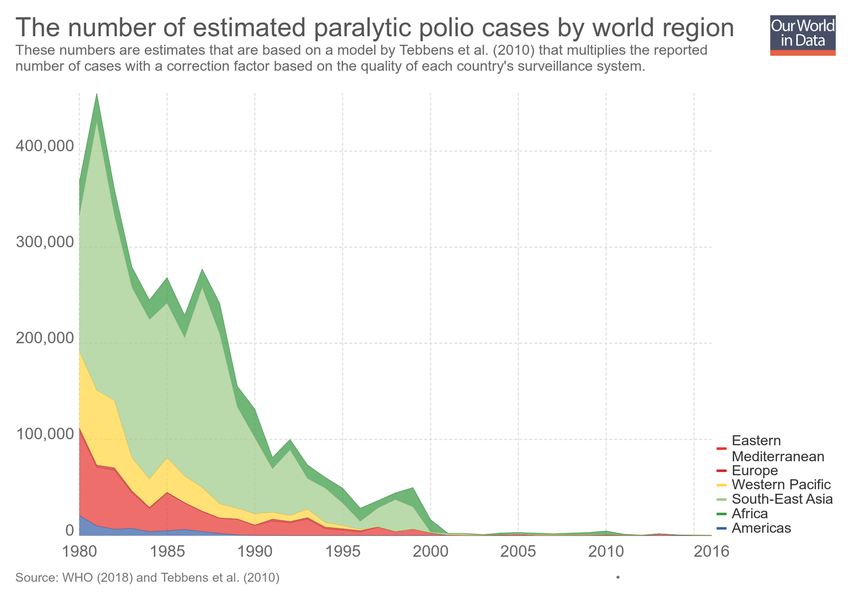
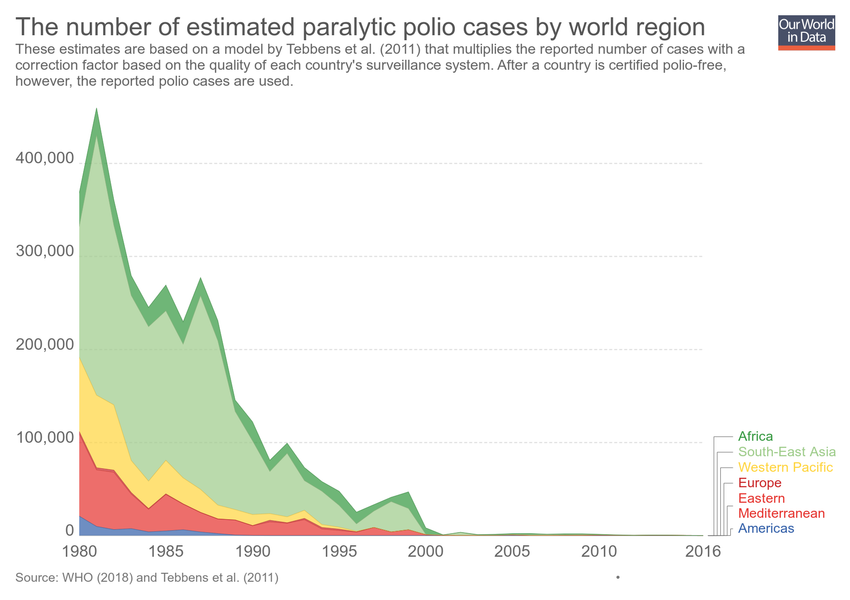
Updating chart number-of-estimated-paralytic-polio-cases-by-world-region

diff --git a/grapher/number-of-estimated-paralytic-polio-cases-by-world-region.html b/grapher/number-of-estimated-paralytic-polio-cases-by-world-region.html
@@ -1,4 +1,4 @@
-<!doctype html><html><head><meta name="viewport" content="width=device-width, initial-scale=1" /><title>The number of estimated paralytic polio cases by world region - Our World in Data</title><meta name="description" content="These estimates are based on a model by Tebbens et al. (2011) that multiplies the reported number of cases with a correction factor based on the quality of each country's surveillance system. After a country is certified polio-free, however, the reported polio cases are used." /><link rel="canonical" href="https://ourworldindata.org/grapher/number-of-estimated-paralytic-polio-cases-by-world-region" /><meta property="fb:app_id" content="1149943818390250" /><meta property="og:url" content="https://ourworldindata.org/grapher/number-of-estimated-paralytic-polio-cases-by-world-region" /><meta property="og:title" content="The number of estimated paralytic polio cases by world region" /><meta property="og:description" content="These estimates are based on a model by Tebbens et al. (2011) that multiplies the reported number of cases with a correction factor based on the quality of each country's surveillance system. After a country is certified polio-free, however, the reported polio cases are used." /><meta property="og:image" content="https://ourworldindata.org/grapher/exports/number-of-estimated-paralytic-polio-cases-by-world-region.png?v=8" /><meta property="og:image:width" content="850" /><meta property="og:image:height" content="600" /><meta property="og:site_name" content="Our World in Data" /><meta name="twitter:card" content="summary_large_image" /><meta name="twitter:site" content="@OurWorldInData" /><meta name="twitter:creator" content="@OurWorldInData" /><meta name="twitter:title" content="The number of estimated paralytic polio cases by world region" /><meta name="twitter:description" content="These estimates are based on a model by Tebbens et al. (2011) that multiplies the reported number of cases with a correction factor based on the quality of each country's surveillance system. After a country is certified polio-free, however, the reported polio cases are used." /><meta name="twitter:image" content="https://ourworldindata.org/grapher/exports/number-of-estimated-paralytic-polio-cases-by-world-region.png?v=8" /><style>
+<!doctype html><html><head><meta name="viewport" content="width=device-width, initial-scale=1" /><title>The number of estimated paralytic polio cases by world region - Our World in Data</title><meta name="description" content="These estimates are based on a model by Tebbens et al. (2011) that multiplies the reported number of cases with a correction factor based on the quality of each country's surveillance system. After a country is certified polio-free, however, the reported polio cases are used." /><link rel="canonical" href="https://ourworldindata.org/grapher/number-of-estimated-paralytic-polio-cases-by-world-region" /><meta property="fb:app_id" content="1149943818390250" /><meta property="og:url" content="https://ourworldindata.org/grapher/number-of-estimated-paralytic-polio-cases-by-world-region" /><meta property="og:title" content="The number of estimated paralytic polio cases by world region" /><meta property="og:description" content="These estimates are based on a model by Tebbens et al. (2011) that multiplies the reported number of cases with a correction factor based on the quality of each country's surveillance system. After a country is certified polio-free, however, the reported polio cases are used." /><meta property="og:image" content="https://ourworldindata.org/grapher/exports/number-of-estimated-paralytic-polio-cases-by-world-region.png?v=9" /><meta property="og:image:width" content="850" /><meta property="og:image:height" content="600" /><meta property="og:site_name" content="Our World in Data" /><meta name="twitter:card" content="summary_large_image" /><meta name="twitter:site" content="@OurWorldInData" /><meta name="twitter:creator" content="@OurWorldInData" /><meta name="twitter:title" content="The number of estimated paralytic polio cases by world region" /><meta name="twitter:description" content="These estimates are based on a model by Tebbens et al. (2011) that multiplies the reported number of cases with a correction factor based on the quality of each country's surveillance system. After a country is certified polio-free, however, the reported polio cases are used." /><meta name="twitter:image" content="https://ourworldindata.org/grapher/exports/number-of-estimated-paralytic-polio-cases-by-world-region.png?v=9" /><style>
         html, body {
             height: 100%;
             margin: 0;
@@ -20,8 +20,8 @@
         }
     </style><noscript><style>
                     figure { display: none !important; }
-                </style></noscript><link rel="stylesheet" href="https://ourworldindata.org/grapher/assets/commons.bundle.ac09ff8f098f0c7be836.css" /><link rel="preload" href="/grapher/data/variables/85793.json?v=8" as="fetch" crossorigin /></head><body class="singleChart"><figure data-grapher-src="/grapher/number-of-estimated-paralytic-polio-cases-by-world-region"></figure><noscript id="fallback"><img src="/grapher/exports/number-of-estimated-paralytic-polio-cases-by-world-region.svg" /><p>Interactive visualization requires JavaScript</p></noscript><script src="https://cdn.polyfill.io/v2/polyfill.min.js?features=es6,fetch"></script><script src="https://ourworldindata.org/grapher/assets/commons.bundle.ac09ff8f098f0c7be836.js"></script><script src="https://ourworldindata.org/grapher/assets/charts.bundle.dcf65b68eddaba4c6a58.js"></script><script>
-        var jsonConfig = {"id":2026,"map":{"projection":"World","targetYear":2016,"variableId":42219,"baseColorScheme":"Spectral","isManualBuckets":true,"colorSchemeInvert":true,"colorSchemeLabels":[],"colorSchemeValues":[10,50,100,500,1000,5000,10000,40000],"defaultProjection":"World","colorSchemeMinValue":0,"customNumericColors":[],"customCategoryColors":{},"customCategoryLabels":{},"customHiddenCategories":{}},"tab":"chart","slug":"number-of-estimated-paralytic-polio-cases-by-world-region","type":"StackedArea","title":"The number of estimated paralytic polio cases by world region","xAxis":{"scaleType":"linear"},"yAxis":{"min":0,"scaleType":"linear"},"version":8,"subtitle":"These estimates are based on a model by Tebbens et al. (2011) that multiplies the reported number of cases with a correction factor based on the quality of each country's surveillance system. After a country is certified polio-free, however, the reported polio cases are used.","hasMapTab":true,"originUrl":"https://ourworldindata.org/polio/","stackMode":"absolute","dimensions":[{"display":{},"property":"y","variableId":85793}],"hasChartTab":true,"isPublished":true,"selectedData":[{"index":0,"entityId":273},{"index":0,"entityId":487},{"index":0,"entityId":489},{"index":0,"entityId":276},{"index":0,"entityId":488},{"index":0,"entityId":290}],"internalNotes":"","addCountryMode":"disabled"};
+                </style></noscript><link rel="stylesheet" href="https://ourworldindata.org/grapher/assets/commons.bundle.ac09ff8f098f0c7be836.css" /><link rel="preload" href="/grapher/data/variables/85793.json?v=9" as="fetch" crossorigin /></head><body class="singleChart"><figure data-grapher-src="/grapher/number-of-estimated-paralytic-polio-cases-by-world-region"></figure><noscript id="fallback"><img src="/grapher/exports/number-of-estimated-paralytic-polio-cases-by-world-region.svg" /><p>Interactive visualization requires JavaScript</p></noscript><script src="https://cdn.polyfill.io/v2/polyfill.min.js?features=es6,fetch"></script><script src="https://ourworldindata.org/grapher/assets/commons.bundle.ac09ff8f098f0c7be836.js"></script><script src="https://ourworldindata.org/grapher/assets/charts.bundle.dcf65b68eddaba4c6a58.js"></script><script>
+        var jsonConfig = {"id":2026,"map":{"projection":"World","targetYear":2016,"variableId":42219,"baseColorScheme":"Spectral","isManualBuckets":true,"colorSchemeInvert":true,"colorSchemeLabels":[],"colorSchemeValues":[10,50,100,500,1000,5000,10000,40000],"colorSchemeMinValue":0,"customNumericColors":[],"customCategoryColors":{},"customCategoryLabels":{},"customHiddenCategories":{}},"tab":"chart","slug":"number-of-estimated-paralytic-polio-cases-by-world-region","type":"StackedArea","title":"The number of estimated paralytic polio cases by world region","xAxis":{"scaleType":"linear"},"yAxis":{"min":0,"scaleType":"linear"},"version":9,"subtitle":"These estimates are based on a model by Tebbens et al. (2011) that multiplies the reported number of cases with a correction factor based on the quality of each country's surveillance system. After a country is certified polio-free, however, the reported polio cases are used.","hasMapTab":true,"originUrl":"https://ourworldindata.org/polio/","stackMode":"absolute","dimensions":[{"display":{"numDecimalPlaces":0},"property":"y","variableId":85793}],"hasChartTab":true,"isPublished":true,"selectedData":[{"index":0,"entityId":273},{"index":0,"entityId":487},{"index":0,"entityId":489},{"index":0,"entityId":276},{"index":0,"entityId":488},{"index":0,"entityId":290}],"internalNotes":"","addCountryMode":"disabled"};
         var figure = document.getElementsByTagName("figure")[0];
         try {
             window.App = {};
